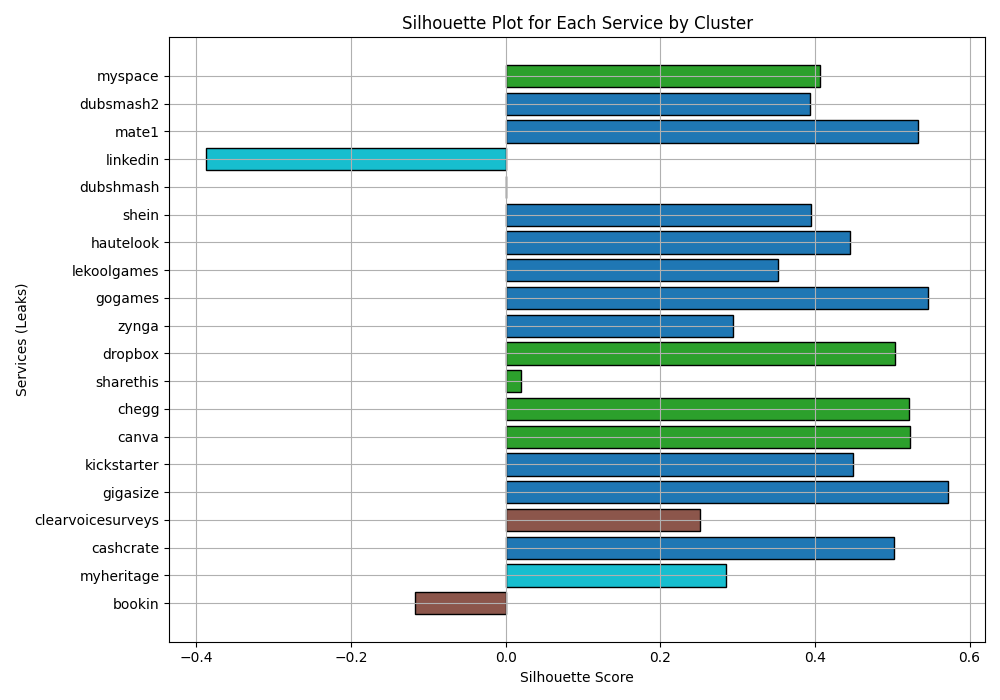
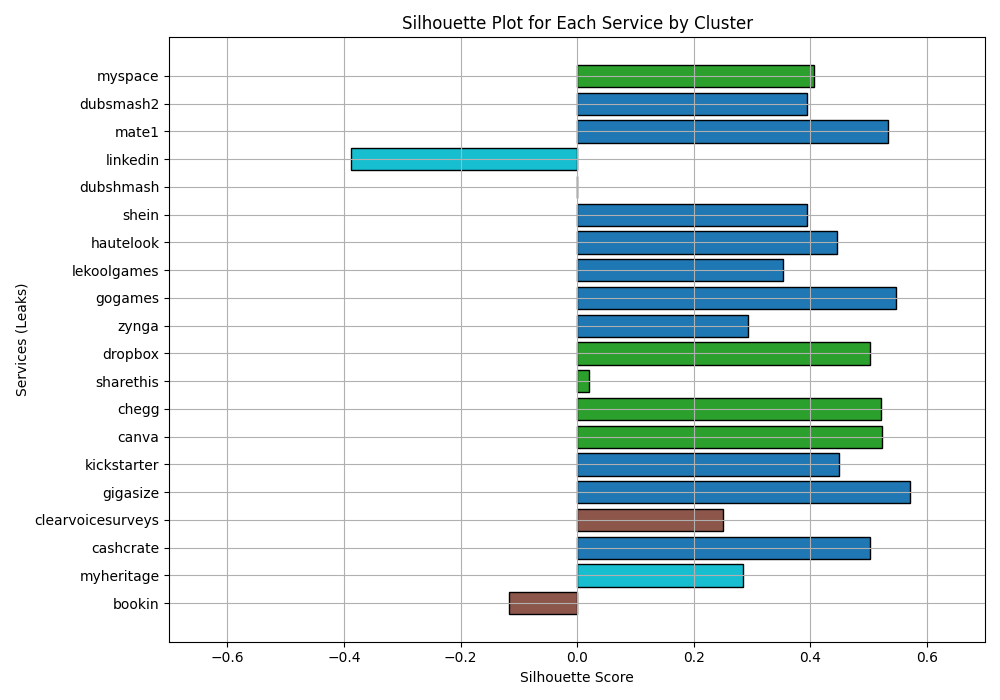
clustering plots fix

diff --git a/clustering.py b/clustering.py
@@ -265,7 +265,7 @@ class ClusterEvaluation:
         silhouette_values = silhouette_samples(self.leak_probabilities, self.numerical_labels)
         return silhouette_index, silhouette_values 
     
-    def plot_silhouette(self):
+    def plot_silhouette(self, vmin=None, vmax=None):
         # Convert numerical_labels to NumPy array for easier handling
         cluster_labels = np.array(self.numerical_labels)
 
@@ -292,6 +292,10 @@ class ClusterEvaluation:
         ax.set_xlabel("Silhouette Score")
         ax.set_ylabel("Services (Leaks)")
         ax.set_title("Silhouette Plot for Each Service by Cluster")
+
+        # Set the x-axis limits based on provided vmin and vmax
+        if vmin is not None and vmax is not None:
+            ax.set_xlim(vmin, vmax)
 
         # Display the plot
         plt.tight_layout()
@@ -330,7 +334,7 @@ def clustering(leaks_file, kmeans=False):
     # Call manual clustering
     manualCluster = ClusterEvaluation(leak_names, numerical_labels, leak_probabilities)
     manualCluster.evaluate()
-    manualCluster.plot_silhouette().savefig("./figures/bars/silohuetteManual.png")
+    manualCluster.plot_silhouette(vmin=-0.7,vmax=0.7).savefig("./figures/bars/silohuetteManual.png")
     # Print measures
     print(f"Manual Measures")
     print(manualCluster, "\n")
@@ -344,7 +348,7 @@ def clustering(leaks_file, kmeans=False):
     sse, cluster_list, centroidsKmeans = execute_kmeans(leak_types, leak_names, leak_probabilities, 5)
     kmeans5Cluster = ClusterEvaluation(leak_names, [item[1] for item in cluster_list], leak_probabilities)
     kmeans5Cluster.evaluate()
-    kmeans5Cluster.plot_silhouette().savefig("./figures/bars/silohuetteKmeans5.png")
+    kmeans5Cluster.plot_silhouette(vmin=-0.7,vmax=0.7).savefig("./figures/bars/silohuetteKmeans5.png")
     print(f"Kmeans 5 Measures")
     print(kmeans5Cluster, "\n")
     # Save indexes in file
